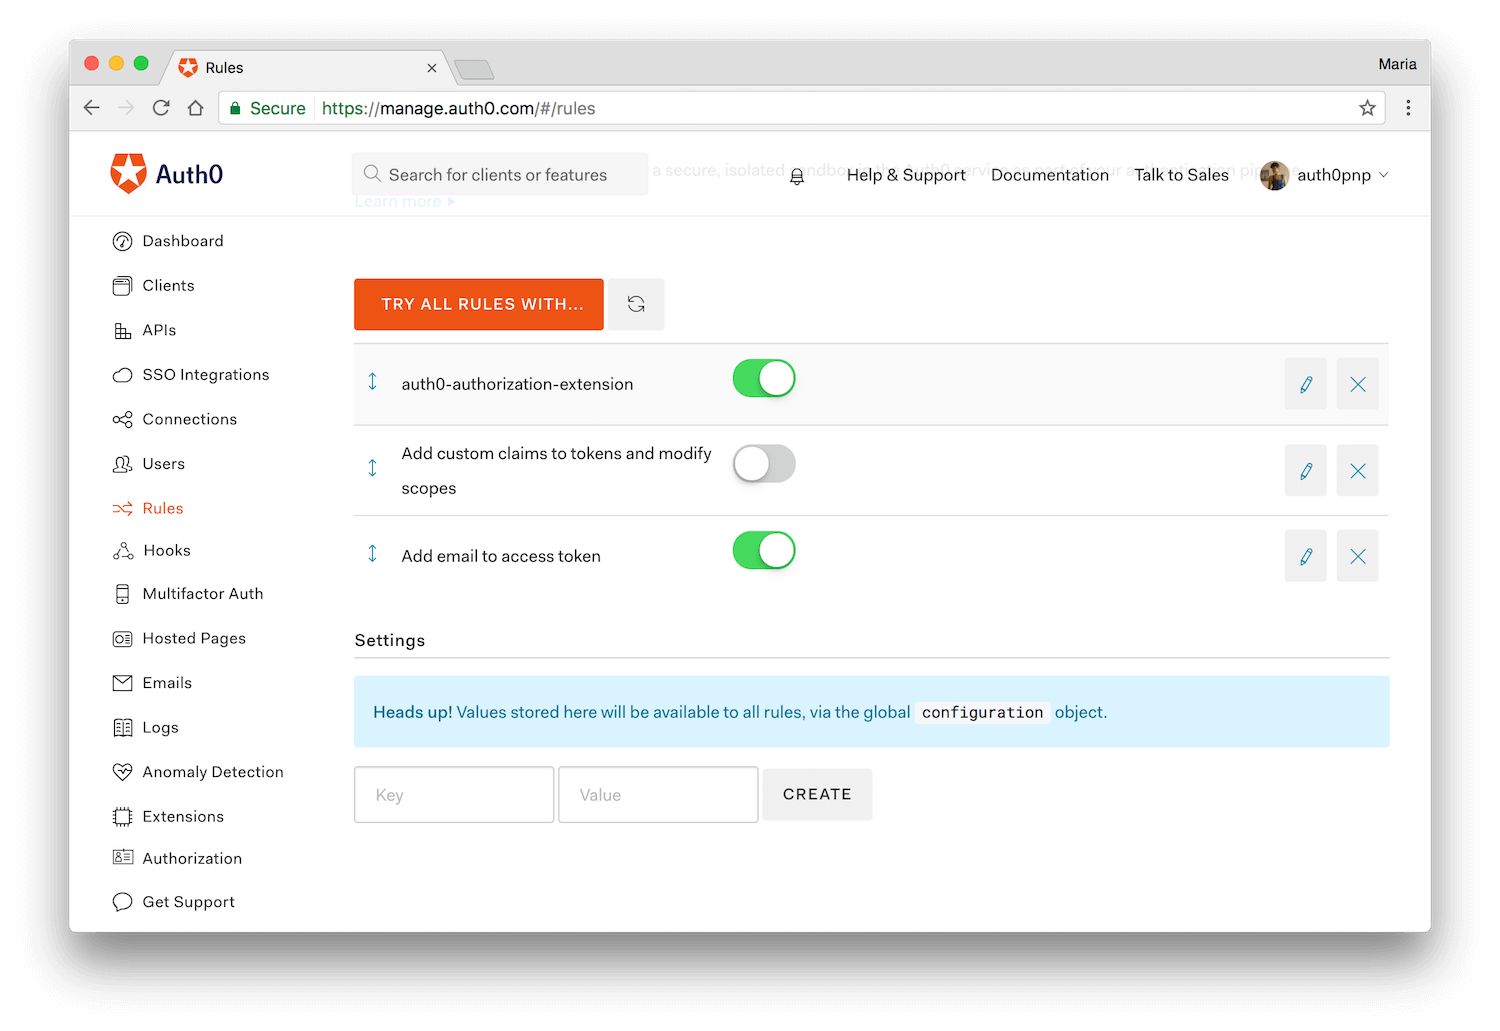
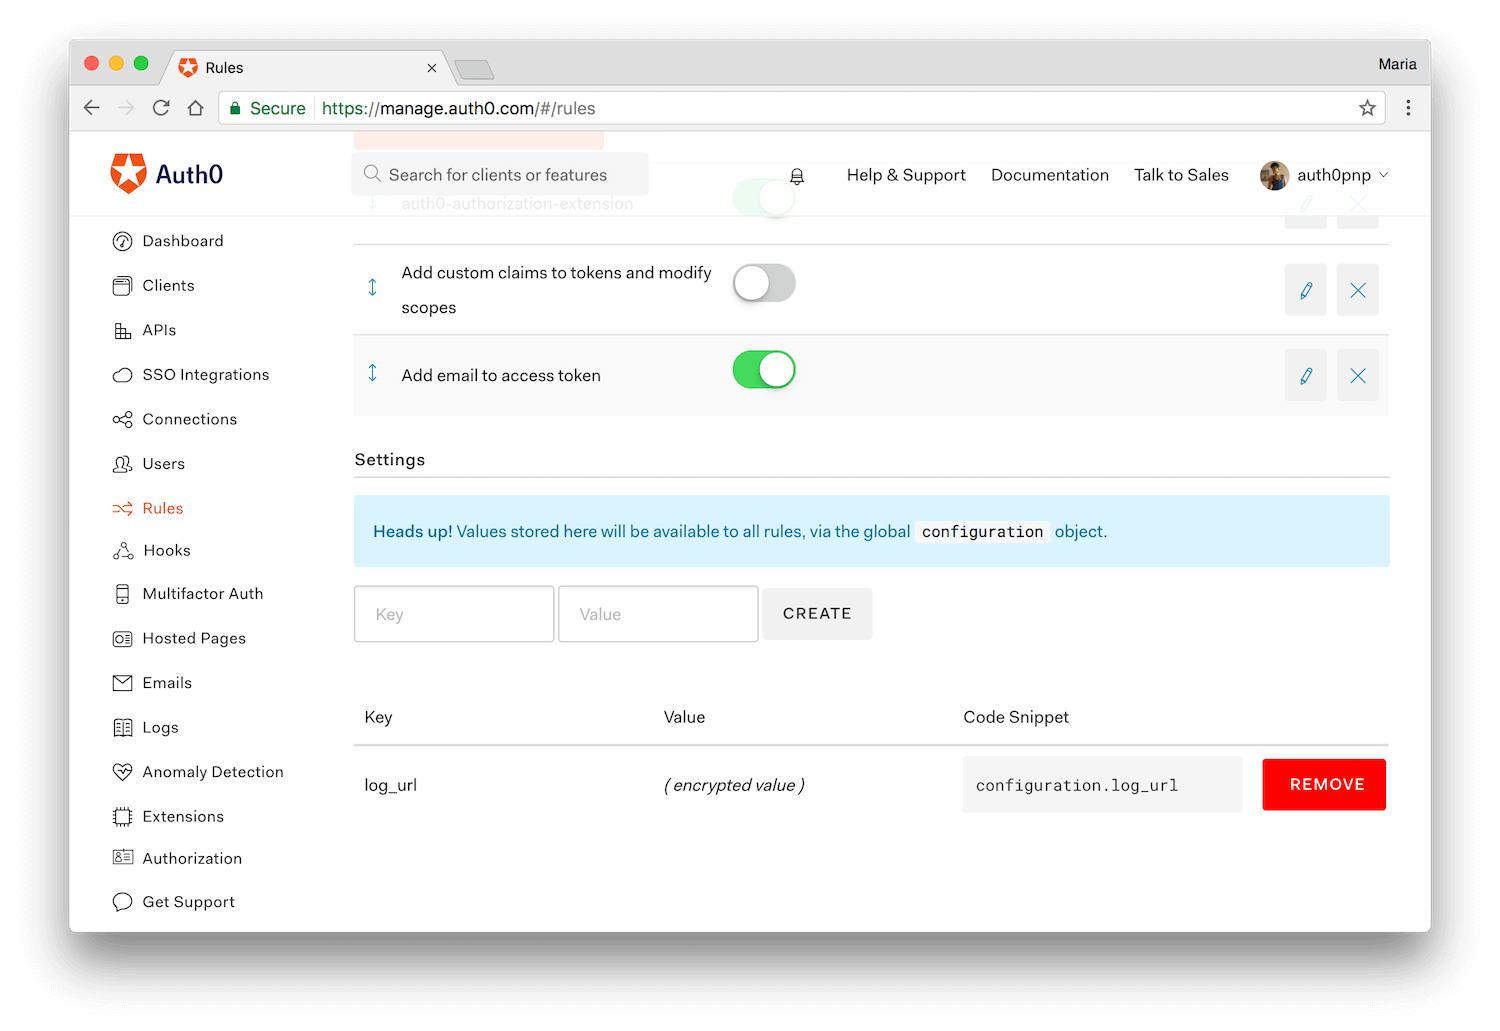
Update screenshot

Changed region(s): [[0.2147, 0.2483, 0.9507, 0.6208], [0.2147, 0.5897, 0.9507, 0.807], [0.5213, 0.5897, 0.552, 0.6208]]

diff --git a/articles/dev-lifecycle/setting-up-env.md b/articles/dev-lifecycle/setting-up-env.md
@@ -26,7 +26,7 @@ function(user, context, callback){
 
 This code however is not portable since this URL will likely change from development to production.
 
-The recommended way is to navigate to the [Dashboard > Rules](${manage_url}/#/rules), scroll at the bottom of the page, set your configuration value (we will use `log_url` for name, and `https://someurl/log` for value), and click __Create__.
+The recommended way is to navigate to the [Dashboard > Rules](${manage_url}/#/rules), scroll at the bottom of the page, set your configuration value (we will use `log_url` for the key name, and `https://someurl/log` for value), and click __Create__.
 
 ![Rules Configuration Values](/media/articles/lifecycle/rules-conf-values.png)
 
